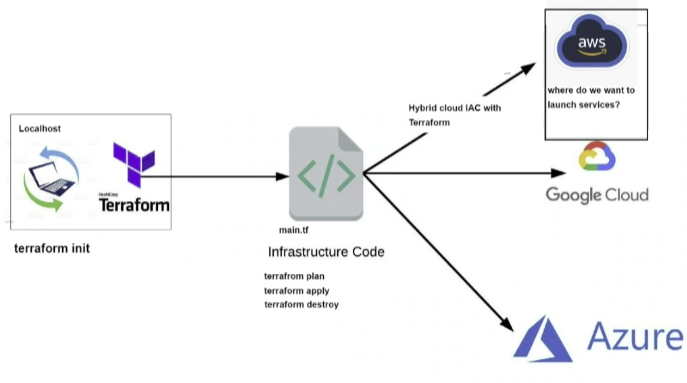
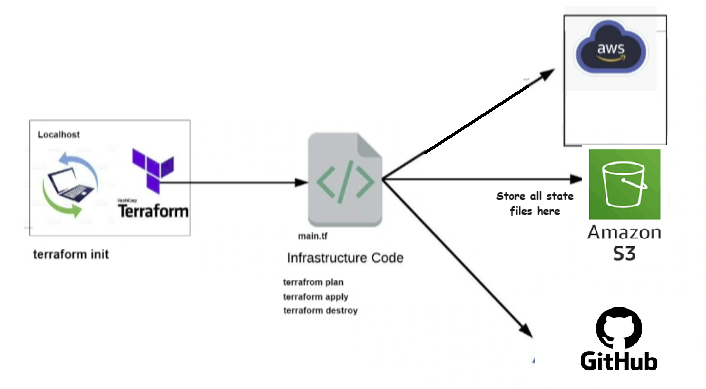
terraform diagram

diff --git a/readme.md b/readme.md
@@ -64,7 +64,7 @@ Terraform reads HCL (HashiCorp) files which are like JSON files **Key=Value**, t
 - Hide confidential information (.gitignore)<br>
 ![alt text](images/securing_terraform.png)
 ## Terraform with multiple providers
-![alt text](images/terraform.png)<br>
+![alt text](images/terraform_diagram.png)
 Terraform is powerful, it can be used to deploy on multiple cloud providers at once! Underneath is a main.tf file that can be used to deploy an ec2 instance on aws and make a github repo.
 ```bash
 provider "aws" {
